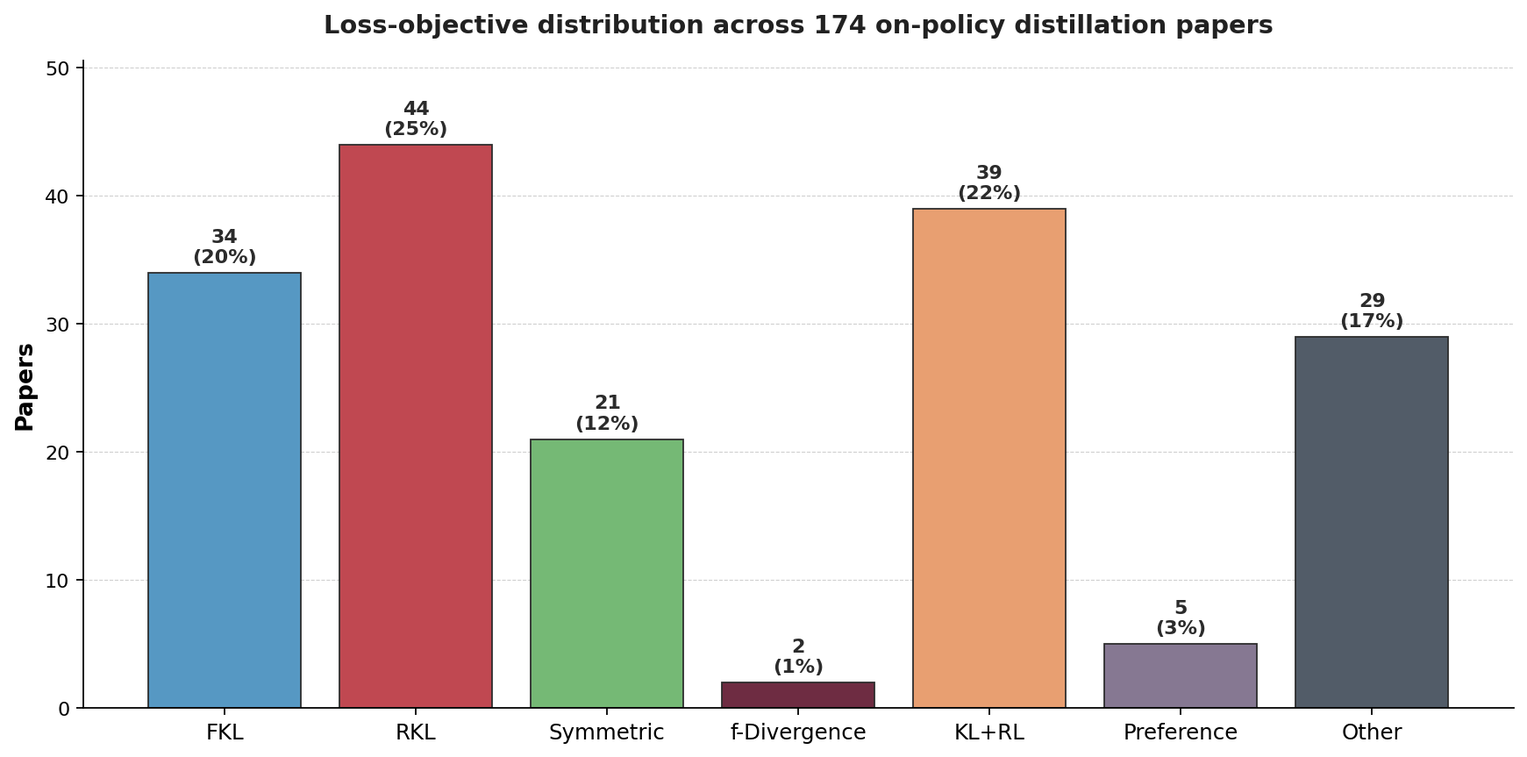
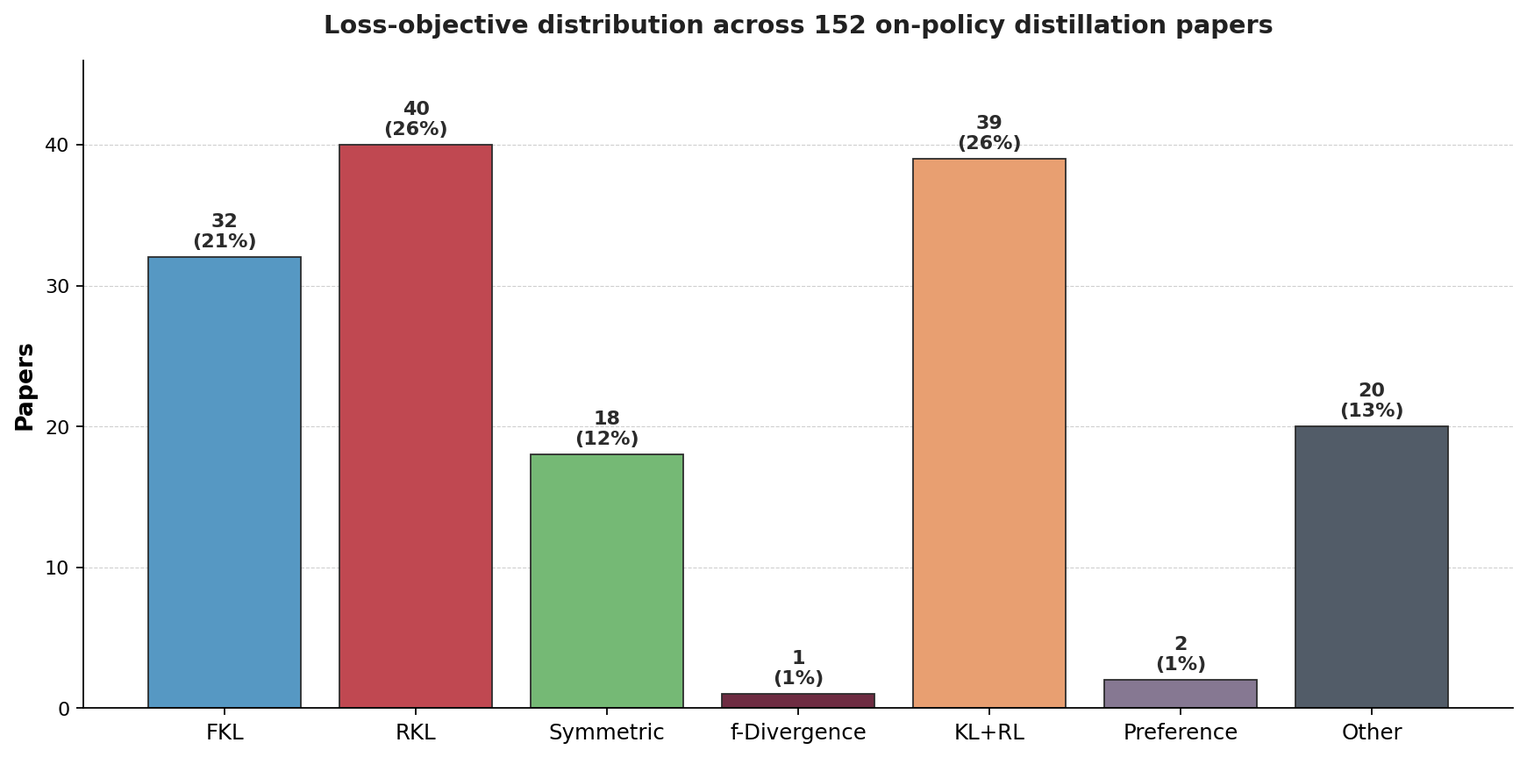
Remove 3 self-play-family papers + restrict loss-taxonomy to README scope
Triggered by spotting On-Policy SFT for Efficient Reasoning (2602.13407)
which uses NLL on filtered correct rollouts with no teacher distribution
— STaR/RFT family, not distillation. Follow-up scan caught two more with
the same signature (signal=self/PI(GT)/verifier + loss has no teacher-KL term):

- 2602.13407 (On-Policy SFT) — paper itself states "reward-free SFT"
- 2510.18874 (Retaining by Doing) — GRPO + KL-to-ref-policy, no teacher
- 2509.25100 (ORPO-Distill) — ORPO preference loss, same family as SPIN

8 candidates reviewed and kept (use self-snapshot/EMA/privileged-self
as legitimate teacher distribution).

Also: generate_loss_taxonomy.py now restricts to papers in README,
so loss figures stay aligned with published list. Loss figures cover
152 OPD-method papers (165 minus 13 analysis-of-OPD).

Paper count 168 → 165.

diff --git a/resources/loss-taxonomy.md b/resources/loss-taxonomy.md
@@ -2,49 +2,49 @@
 
 _Last updated: 2026-06-03. Auto-generated from `data/loss_classification.json`. Re-run `scripts/generate_loss_taxonomy.py` to refresh._
 
-Each of the **174** OPD papers in this collection is assigned exactly one of seven mutually-exclusive loss classes. Classification is performed by an LLM auditor that reads each paper's `loss_formulation` (LaTeX), training-loop description, and key components, then picks the dominant objective per the rules in `data/loss_taxonomy_schema.json`.
+Each of the **152** OPD papers in this collection is assigned exactly one of seven mutually-exclusive loss classes. Classification is performed by an LLM auditor that reads each paper's `loss_formulation` (LaTeX), training-loop description, and key components, then picks the dominant objective per the rules in `data/loss_taxonomy_schema.json`.
 
 ![Loss Distribution](../assets/loss-distribution.png)
 
 ## Class definitions (compact)
 
-### FKL — Forward KL  ·  **34** papers (19.5%)
+### FKL — Forward KL  ·  **32** papers (21.1%)
 
 `D_KL( \pi_T(\cdot|x) \| \pi_\theta(\cdot|x) )`
 
 _Match rule._ Loss is dominated by forward KL where the teacher distribution is the first argument (mode-covering). Includes classical KD with KL(teacher || student), CE-on-teacher-soft-targets when explicitly equivalent.
 
-### RKL — Reverse KL  ·  **44** papers (25.3%)
+### RKL — Reverse KL  ·  **40** papers (26.3%)
 
 `D_KL( \pi_\theta(\cdot|x) \| \pi_T(\cdot|x) )`
 
 _Match rule._ Loss is dominated by reverse KL where the student distribution is the first argument (mode-seeking). MiniLLM-style policy-gradient interpretations also fall here when the underlying objective is RKL to a teacher.
 
-### Symmetric — Symmetric / Skewed KL / JSD / GKL  ·  **21** papers (12.1%)
+### Symmetric — Symmetric / Skewed KL / JSD / GKL  ·  **18** papers (11.8%)
 
 `D_JSD, D_skew-KL_\alpha, D_GKL, or any symmetrized KL combination`
 
 _Match rule._ Jensen-Shannon divergence; skewed forward/reverse KL with mixture distribution \alpha\pi_T + (1-\alpha)\pi_\theta inside; bidirectional sum a*FKL + b*RKL with both nontrivial; total variation between teacher and student.
 
-### f-Divergence — Other f-divergence (alpha / Renyi / Tsallis / chi-squared)  ·  **2** papers (1.1%)
+### f-Divergence — Other f-divergence (alpha / Renyi / Tsallis / chi-squared)  ·  **1** papers (0.7%)
 
 `D_\alpha, D_Renyi, D_chi2, ... (any f-divergence beyond KL/JSD)`
 
 _Match rule._ Adaptive KL family that interpolates a parameter between FKL and RKL via alpha-divergence (AKL / TAID-style). Renyi divergence. Chi-squared. Tsallis.
 
-### KL+RL — Hybrid KL distill + RL reward  ·  **39** papers (22.4%)
+### KL+RL — Hybrid KL distill + RL reward  ·  **39** papers (25.7%)
 
 `L = D_KL(teacher, student) + \lambda \cdot R(x,a) (or GRPO/PPO surrogate with teacher KL)`
 
 _Match rule._ Loss explicitly mixes a teacher-KL distillation term with a verifiable reward / advantage / GRPO / PPO surrogate signal. Both terms must be load-bearing (removing either breaks the contribution).
 
-### Preference — Preference / Pairwise / DPO-style  ·  **5** papers (2.9%)
+### Preference — Preference / Pairwise / DPO-style  ·  **2** papers (1.3%)
 
 `DPO-style log-ratio margin between chosen and rejected responses, optionally with a KL-to-teacher hinge`
 
 _Match rule._ Preference-pair loss is the primary distillation signal: DPO, IPO, SimPO, or preference-gap KL where teacher provides the chosen response and student avoids rejected.
 
-### Other — Other / Bespoke (NLL, MSE, Contrastive, special)  ·  **29** papers (16.7%)
+### Other — Other / Bespoke (NLL, MSE, Contrastive, special)  ·  **20** papers (13.2%)
 
 `any objective that does not fit the six classes above`
 
@@ -54,22 +54,22 @@ _Match rule._ MSE on hidden states, contrastive InfoNCE between teacher/student 
 
 | Class | Papers | Share |
 |---|---:|---:|
-| FKL | 34 | 19.5% |
-| RKL | 44 | 25.3% |
-| Symmetric | 21 | 12.1% |
-| f-Divergence | 2 | 1.1% |
-| KL+RL | 39 | 22.4% |
-| Preference | 5 | 2.9% |
-| Other | 29 | 16.7% |
-| **Total** | **174** | 100% |
+| FKL | 32 | 21.1% |
+| RKL | 40 | 26.3% |
+| Symmetric | 18 | 11.8% |
+| f-Divergence | 1 | 0.7% |
+| KL+RL | 39 | 25.7% |
+| Preference | 2 | 1.3% |
+| Other | 20 | 13.2% |
+| **Total** | **152** | 100% |
 
-_Confidence breakdown: high=120, medium=53, low=1._
+_Confidence breakdown: high=100, medium=51, low=1._
 
 ![Loss Evolution Over Time](../assets/loss-evolution.png)
 
 ## Per-paper assignments
 
-### FKL (34)
+### FKL (32)
 
 | arXiv | Title | Conf | Evidence |
 |---|---|---|---|
@@ -100,19 +100,16 @@ _Confidence breakdown: high=120, medium=53, low=1._
 | [2604.10688](https://arxiv.org/abs/2604.10688) | SCOPE: Signal-Calibrated On-Policy Distillation Enhancement with Dual-Path Adaptive Wei... | medium | L_OPD on wrong trajectories is KL distillation from teacher logprobs on student-generated sequences, weighted by teacher PPL in... |
 | [2604.07430](https://arxiv.org/abs/2604.07430) | HY-Embodied-0.5: Embodied Foundation Models for Real-World Agents | high | Loss is KL(π_t(·\|x,y_{<t}) \|\| π_s(·\|x,y_{<t})) — forward KL with teacher as first argument, token-level. |
 | [2602.06019](https://arxiv.org/abs/2602.06019) | Multi-Token Prediction via Self-Distillation | high | Loss is -P_θT(y'\|x) log P_θS(y'\|x), which is cross-entropy with teacher weights, equivalent to forward KL (D_KL(teacher\|\|st... |
-| [2512.05105](https://arxiv.org/abs/2512.05105) | Semantic Soft Bootstrapping: Long Context Reasoning in LLMs without Reinforcement Learning | high | KL(softmax(teacher_logits/T) \|\| softmax(student_logits/T)) — teacher distribution is first argument, classic forward KL disti... |
 | [2510.24021](https://arxiv.org/abs/2510.24021) | SelecTKD: Selective Token-Weighted Knowledge Distillation for LLMs | medium | Default D(p_t‖q_t) is KL(teacher‖student), i.e., forward KL. Paper is objective-agnostic but primary experiments use FKL. |
 | [2510.07842](https://arxiv.org/abs/2510.07842) | AdaSwitch: Balancing Exploration and Guidance in Knowledge Distillation via Adaptive Sw... | high | Loss is D(M_t ∥ M_s) = per-token KL with teacher as first argument, i.e., KL(teacher \|\| student) = forward KL. |
-| [2509.14526](https://arxiv.org/abs/2509.14526) | Delta Knowledge Distillation for Large Language Models | high | L_delta-KD = D_KL(π_s*(·\|x) \|\| π_θ(·\|x)), teacher-like synthetic distribution π_s* is the first argument (forward KL). |
 | [2504.11426](https://arxiv.org/abs/2504.11426) | A Dual-Space Framework for General Knowledge Distillation of Large Language Models | high | Both L^{stu}_{kd} and L^{tea}_{kd} use D(teacher_distribution \|\| student_distribution), i.e., forward KL with teacher as firs... |
 | [2410.11325](https://arxiv.org/abs/2410.11325) | Speculative Knowledge Distillation: Bridging the Teacher-Student Gap through Interleave... | high | Loss is D(M_T \|\| M_s) = KL with teacher as first argument, i.e., forward KL D_KL(teacher \|\| student). |
 | [2306.13649](https://arxiv.org/abs/2306.13649) | On-Policy Distillation of Language Models: Learning from Self-Generated Mistakes | medium | Loss formulation uses D(p_T \|\| p_S^θ), which is forward KL with teacher as first argument, as the primary divergence. |
 
-### RKL (44)
+### RKL (40)
 
 | arXiv | Title | Conf | Evidence |
 |---|---|---|---|
-| [deepseekv4](https://arxiv.org/abs/deepseekv4) | DeepSeek-V4: Towards Highly Efficient Million-Token Context Intelligence | high | Loss formulation explicitly states KL(p_student \|\| p_teacher) over full vocabulary, which is reverse KL with student as first... |
 | [2606.02530](https://arxiv.org/abs/2606.02530) | SafeSteer: Localized On-Policy Distillation for Efficient Safety Alignment | high | Loss is Σ p_s(v) log(p_s(v)/p_t(v)), which is D_KL(student \|\| teacher), i.e., reverse KL. |
 | [2606.00564](https://arxiv.org/abs/2606.00564) | Decomposed On-Policy Distillation for Vision-Language Reasoning: Steering Gradients for... | medium | Rollouts sampled from student policy (on-policy), loss computed over τ~p^θ_S(·\|I,x), consistent with reverse KL / MiniLLM-styl... |
 | [2606.00424](https://arxiv.org/abs/2606.00424) | Weak Critics Make Strong Learners: On-Policy Critique Distillation for Scalable Oversight | high | Loss is KL(π_θ(·\|x,y_{<t}) \|\| stopgrad[π_θ(·\|x,f,y_{<t})]), student in first argument, teacher (critique-conditioned) in se... |
@@ -136,7 +133,6 @@ _Confidence breakdown: high=120, medium=53, low=1._
 | [2605.00642](https://arxiv.org/abs/2605.00642) | Learn where to Click from Yourself: On-Policy Self-Distillation for GUI Grounding | high | Loss is D_KL(P^S(y_t) \|\| P^T(y_t)) with expectation over student samples y ~ P^S, which is reverse KL. |
 | [2604.17535](https://arxiv.org/abs/2604.17535) | OPSDL: On-Policy Self-Distillation for Long-Context Language Models | high | Policy gradient with advantage A_t = log π_Teacher - log π_θ under on-policy student samples is the REINFORCE gradient of rever... |
 | [2604.14084](https://arxiv.org/abs/2604.14084) | TIP: Token Importance in On-Policy Distillation | high | Loss is D_KL(P_S(·\|c_t) ‖ P_T(·\|c_t)), i.e., student distribution as first argument — reverse KL. |
-| [2604.13010](https://arxiv.org/abs/2604.13010) | Lightning OPD: Efficient Post-Training for Large Reasoning Models with Offline On-Polic... | high | A_t = log π_T - log π_θ; maximizing J_off = E[Σ A_t] minimizes E_{π_ref}[log π_θ - log π_T], equivalent to reverse KL under π_r... |
 | [2604.12002](https://arxiv.org/abs/2604.12002) | Self-Distillation Zero: Self-Revision Turns Binary Rewards into Dense Supervision | high | L_Self-Distillation uses D_KL(π_θ(·\|x,y_{<t}) \|\| π_{θ_SRT}(·\|x,y,P_r,y_{<t})), student is first argument = reverse KL. |
 | [2604.08527](https://arxiv.org/abs/2604.08527) | Demystifying OPD: Length Inflation and Stabilization Strategies for Large Language Models | high | Token-level reverse-KL advantage Aᵢ,ₜ = log πT − log πθ used in GRPO-clip objective is policy-gradient minimization of D_KL(πθ‖... |
 | [2603.26666](https://arxiv.org/abs/2603.26666) | VLA-OPD: Bridging Offline SFT and Online RL for Vision-Language-Action Models via On-Po... | high | Objective is J(θ) = E_{s~π_θ}[-D_KL(π_θ(·\|s) \|\| π_tea(·\|s))], explicitly reverse KL with student as first argument. |
@@ -147,17 +143,15 @@ _Confidence breakdown: high=120, medium=53, low=1._
 | [2602.15260](https://arxiv.org/abs/2602.15260) | Fast and Effective On-policy Distillation from Reasoning Prefixes | high | Loss is sum of log(πs/πT) over student-sampled tokens, which is the reverse KL D_KL(πs \|\| πT). |
 | [2602.12275](https://arxiv.org/abs/2602.12275) | On-Policy Context Distillation for Language Models | high | Loss is D_KL(π_θ(·\|x,y_{<t}) \|\| π_teacher(·\|c,x,y_{<t})), student in first argument = reverse KL. |
 | [2602.02994](https://arxiv.org/abs/2602.02994) | Video-OPD: Efficient Post-Training of Multimodal Large Language Models for Temporal Vid... | high | Token reward r_t = -(log π_θ - log π_tea) is policy-gradient minimization of reverse KL D_KL(π_θ \|\| π_tea), MiniLLM-style. |
-| [2602.02405](https://arxiv.org/abs/2602.02405) | Didactic to Constructive: Turning Expert Solutions into Learnable Reasoning | high | Dominant term is D_KL(M_θ(·\|x,r_{<t}) \|\| M_PS(·\|r_{<t})), reverse KL with student as first argument, teacher (privileged st... |
 | [2601.20802](https://arxiv.org/abs/2601.20802) | Reinforcement Learning via Self-Distillation | medium | Loss is KL(π_θ(·\|x,y_{<t}) \|\| stopgrad(π_θ(·\|x,f,y_{<t}))), student in first argument = reverse KL direction. |
 | [2601.19897](https://arxiv.org/abs/2601.19897) | Self-Distillation Enables Continual Learning | high | Loss is D_KL(π_θ(·\|x) \|\| π(·\|x,c)), expectation under student π_θ — reverse KL with student as first argument. |
 | [2601.08310](https://arxiv.org/abs/2601.08310) | ORBIT: On-policy Exploration-Exploitation for Controllable Multi-Budget Reasoning | high | L_fusion minimizes E_{o~πϕ}[Σ_t log(πϕ/πθk)], which is on-policy reverse KL D_KL(πϕ \|\| πθk) from student to teacher. |
-| [2510.11615](https://arxiv.org/abs/2510.11615) | LLM-Oriented Token-Adaptive Knowledge Distillation | high | Loss formulation explicitly states D_KL(q_θ \|\| p), i.e., KL with student q_θ as first argument and teacher p as second. |
 | [2505.09388](https://arxiv.org/abs/2505.09388) | Qwen3 Technical Report | high | L_{on-policy} = D_{KL}(π_θ ∥ π_T), student is first argument, teacher second — reverse KL. |
 | [2503.02832](https://arxiv.org/abs/2503.02832) | AlignDistil: Token-Level Language Model Alignment as Adaptive Policy Distillation | high | Loss is D_KL(π_θ(·\|ŷ<t,x) ‖ π*(·\|ŷ<t,x)), student is first argument — reverse KL. |
 | [2402.12842](https://arxiv.org/abs/2402.12842) | PromptKD: Distilling Student-Friendly Knowledge for Generative Language Models via Prom... | high | L_student = D_KL(q_θ(y\|x) \|\| p(y\|P,x)) is reverse KL with student as first argument, the primary student training objective. |
 | [2306.08543](https://arxiv.org/abs/2306.08543) | MiniLLM: On-Policy Distillation of Large Language Models | high | Primary objective is KL[q_θ ∥ p] = D_KL(student ∥ teacher), the reverse KL, optimized via policy gradient. |
 
-### Symmetric (21)
+### Symmetric (18)
 
 | arXiv | Title | Conf | Evidence |
 |---|---|---|---|
@@ -176,19 +170,15 @@ _Confidence breakdown: high=120, medium=53, low=1._
 | [2603.07079](https://arxiv.org/abs/2603.07079) | Entropy-Aware On-Policy Distillation of Language Models | high | Loss combines PPO-clip reverse KL (low-entropy tokens) and top-k truncated forward KL (high-entropy tokens), both teacher-direc... |
 | [2601.18734](https://arxiv.org/abs/2601.18734) | Self-Distilled Reasoner: On-Policy Self-Distillation for Large Language Models | high | Loss is JSD_β = β·D_KL(p_T∥m) + (1-β)·D_KL(p_S∥m), m=βp_T+(1-β)p_S, a skewed Jensen-Shannon divergence. |
 | [2601.07155](https://arxiv.org/abs/2601.07155) | Stable On-Policy Distillation through Adaptive Target Reformulation | medium | Target Q∝P_T·P_S^β is a mixture/interpolation between teacher and student; KL to Q is neither pure FKL nor RKL. |
-| [2505.16297](https://arxiv.org/abs/2505.16297) | ToDi: Token-wise Distillation via Fine-Grained Divergence Control | high | Loss is α·FKL + (1-α)·RKL per token, a bidirectional weighted combination of forward and reverse KL with both nontrivial. |
 | [2503.07067](https://arxiv.org/abs/2503.07067) | DistiLLM-2: A Contrastive Approach Boosts the Distillation of LLMs | high | Loss combines SKL (skewed forward KL) on teacher responses and SRKL (skewed reverse KL) on student responses with dynamic α mix... |
-| [2501.16937](https://arxiv.org/abs/2501.16937) | TAID: Temporally Adaptive Interpolated Distillation for Efficient Knowledge Transfer in... | high | Loss is KL(p_t \|\| q_θ) where p_t = (1-t)·q'_θ + t·p_teacher, a skewed mixture distribution interpolating student and teacher. |
-| [2404.02657](https://arxiv.org/abs/2404.02657) | Rethinking Kullback-Leibler Divergence in Knowledge Distillation for Large Language Models | high | AKL combines FKL and RKL with adaptive weights g_head/(g_head+g_tail) and g_tail/(g_head+g_tail), both nontrivial. |
 | [2402.03898](https://arxiv.org/abs/2402.03898) | DISTILLM: Towards Streamlined Distillation for Large Language Models | high | Loss uses skewed KL: D_KL(p, αp+(1-α)q_θ) or D_KL(q_θ, (1-α)p+αq_θ), mixture distribution inside defines skew-KL. |
 | [2310.08461](https://arxiv.org/abs/2310.08461) | DistillSpec: Improving Speculative Decoding via Knowledge Distillation | medium | Loss uses D ∈ {FKL, RKL, JSD[β], TVD}; JSD and TVD are symmetric divergences; paper treats divergence selection as key contribu... |
 
-### f-Divergence (2)
+### f-Divergence (1)
 
 | arXiv | Title | Conf | Evidence |
 |---|---|---|---|
 | [2606.01039](https://arxiv.org/abs/2606.01039) | OPD+: Rethinking the Advantage Design for On-Policy Distillation | high | Loss uses general f-divergence framework with w_f(u) = -f(u) + u*f'(u), generalizing beyond KL to arbitrary f-divergences. |
-| [2604.20933](https://arxiv.org/abs/2604.20933) | IRIS: Interpolative Rényi Iterative Self-play for Large Language Model Fine-Tuning | high | Loss is Rényi divergence variational objective with adaptive order α interpolating between KL, JS, χ², Hellinger — a general f-... |
 
 ### KL+RL (39)
 
@@ -234,49 +224,37 @@ _Confidence breakdown: high=120, medium=53, low=1._
 | [2509.22921](https://arxiv.org/abs/2509.22921) | Rethinking Large Language Model Distillation: A Constrained Markov Decision Process Per... | high | Loss combines binary task reward R with KL constraint (cumulative KL to teacher as budget), both load-bearing in CMDP formulation. |
 | [2506.02208](https://arxiv.org/abs/2506.02208) | KDRL: Post-Training Reasoning LLMs via Unified Knowledge Distillation and Reinforcement... | high | J_KDRL = J_GRPO − β·D^{k2}_KL(π_θ‖π_T) explicitly combines GRPO RL surrogate with teacher KL distillation term. |
 
-### Preference (5)
+### Preference (2)
 
 | arXiv | Title | Conf | Evidence |
 |---|---|---|---|
 | [2605.05040](https://arxiv.org/abs/2605.05040) | Preference-Based Self-Distillation: Beyond KL Matching via Reward Regularization | high | Loss is DPO-style Bradley-Terry log σ(β[log-ratio margin]) with teacher as reference policy, paired chosen/rejected samples. |
 | [2604.28123](https://arxiv.org/abs/2604.28123) | Beyond SFT-to-RL: Pre-alignment via Black-Box On-Policy Distillation for Multimodal RL | high | Bradley-Terry loss on discriminator comparing supervision y+ vs rollout y-, minimax adversarial preference-pair alignment. |
-| [2509.25100](https://arxiv.org/abs/2509.25100) | ORPO-Distill: Mixed-Policy Preference Optimization for Cross-Architecture LLM Distillation | high | ORPO loss uses log-sigmoid of log-odds ratio between chosen (teacher) and rejected (student) responses—a pairwise preference ob... |
-| [2410.09008](https://arxiv.org/abs/2410.09008) | SuperCorrect: Advancing Small LLM Reasoning with Thought Template Distillation and Self... | high | Stage-2 Cross-model DPO loss uses log-sigmoid margin between teacher-corrected positive and student-generated negative pairs, c... |
-| [2401.01335](https://arxiv.org/abs/2401.01335) | Self-Play Fine-Tuning Converts Weak Language Models to Strong Language Models | high | SPIN loss uses logistic loss on log-ratio margins between chosen (human) and rejected (model-generated) responses, identical to... |
 
-### Other (29)
+### Other (20)
 
 | arXiv | Title | Conf | Evidence |
 |---|---|---|---|
 | [2606.02372](https://arxiv.org/abs/2606.02372) | COMAP: Co-Evolving World Models and Agent Policies for LLM Agents | medium | Loss is NLL on environment next-state prediction plus EMA self-distillation and BCE/NLL policy terms, no explicit KL divergence... |
 | [2606.01476](https://arxiv.org/abs/2606.01476) | OmniOPD: Logit-Free On-Policy Distillation via Speculative Verification | medium | Loss is weighted NLL on teacher-scored chunks (semantic similarity scores as weights), not a KL divergence between teacher/stud... |
-| [2606.01080](https://arxiv.org/abs/2606.01080) | ThinkSwitch: Context Distillation with LoRA and Weight Interpolation for Specific-Purpo... | high | QLoRA fine-tuning on teacher-generated answer-only sequences is NLL on hard labels, no KL divergence term present. |
-| [2605.29584](https://arxiv.org/abs/2605.29584) | GAPD: Gold-Action Policy Distillation for Agentic Reinforcement Learning in Knowledge B... | medium | Loss is clipped PPO surrogate with fused advantage combining GRPO and gold-action guide scores; no explicit KL divergence to te... |
 | [2605.28791](https://arxiv.org/abs/2605.28791) | Skill-Conditioned Gated Self-Distillation for LLM Reasoning | medium | Gated distillation objective uses bounded log-sigmoid of token gap squared, not a standard KL divergence formulation. |
 | [2605.21851](https://arxiv.org/abs/2605.21851) | OPPO: Bayesian Value Recursion for Token-Level Credit Assignment in LLM Reasoning | medium | Policy gradient with token-level advantage from Bayesian value recursion; no explicit KL distillation term to a teacher distrib... |
 | [2605.17862](https://arxiv.org/abs/2605.17862) | f-OPD: Stabilizing Long-Horizon On-Policy Distillation with Freshness-Aware Control | low | No equations or explicit loss formulation available; freshness-aware reweighting and policy drift constraint suggest bespoke mo... |
 | [2605.13643](https://arxiv.org/abs/2605.13643) | Prefix Teach, Suffix Fade: Local Teachability Collapse in Strong-to-Weak On-Policy Dist... | medium | Loss is -A'_t log p_S(y_t\|x,y_{<t}): weighted NLL on student rollouts with BIC-truncated mask, no explicit KL to teacher distr... |
-| [2605.11854](https://arxiv.org/abs/2605.11854) | Self-Distilled Trajectory-Aware Boltzmann Modeling: Bridging the Training-Inference Dis... | high | TABOM loss combines trajectory-aware reconstruction (NLL on masked tokens) and pairwise entropy ordering hinge loss—no KL diver... |
 | [2605.07396](https://arxiv.org/abs/2605.07396) | Rubric-based On-policy Distillation | high | GRPO surrogate with rubric-based reward from teacher; KL term is only ref-policy regularization, no direct KL-to-teacher distil... |
 | [2605.06094](https://arxiv.org/abs/2605.06094) | VISD: Enhancing Video Reasoning via Structured Self-Distillation | medium | Loss is GRPO clipped surrogate with teacher-modulated token weights; no explicit KL distillation term exists in the objective. |
-| [2604.01193](https://arxiv.org/abs/2604.01193) | Embarrassingly Simple Self-Distillation Improves Code Generation | high | Standard CE/NLL on self-generated sequences with no KL term, no teacher distribution, no reward signal. |
 | [2603.13260](https://arxiv.org/abs/2603.13260) | Explain in Your Own Words: Improving Reasoning via Token-Selective Dual Knowledge Disti... | medium | Loss combines Plackett-Luce ranking loss (preference-like but not pairwise DPO), entropy-gated JSD, and entropy minimization—no... |
 | [2602.20574](https://arxiv.org/abs/2602.20574) | GATES: Self-Distillation under Privileged Context with Consensus Gating | medium | L_off is NLL on tutor rollout tokens; L_on is advantage-weighted policy gradient using tutor-student log-prob difference, not s... |
-| [2602.13407](https://arxiv.org/abs/2602.13407) | On-Policy Supervised Fine-Tuning for Efficient Reasoning | high | NLL/CE on self-generated correct rollouts with no teacher distribution or KL term—standard on-policy SFT cross-entropy. |
 | [2602.02482](https://arxiv.org/abs/2602.02482) | Expanding the Capabilities of Reinforcement Learning via Text Feedback | medium | RLTF-SD uses AWR-style RL with second-turn rollouts as targets; RLTF-FM adds NLL on teacher critique. No explicit KL(teacher\|\... |
 | [2601.21968](https://arxiv.org/abs/2601.21968) | OVD: On-policy Verbal Distillation | high | Loss is PPO-clip surrogate with reward from teacher verbal scores; no KL divergence to teacher distribution appears in the obje... |
 | [2601.09088](https://arxiv.org/abs/2601.09088) | Distribution-Aligned Sequence Distillation for Superior Long-CoT Reasoning | high | Loss is NLL on teacher-sampled sequences: L = -log p_S(ŷ\|x) where ŷ ~ p_T, no explicit KL term. |
 | [2512.23097](https://arxiv.org/abs/2512.23097) | A Note on Hybrid Online Reinforcement and Imitation Learning for LLMs: Formulations and... | medium | Loss is KL(π_θ \|\| π_ref) + λ·reward. π_ref is a reference policy, not a teacher distribution for distillation. |
 | [2511.10643](https://arxiv.org/abs/2511.10643) | Black-Box On-Policy Distillation of Large Language Models | high | GAN-style adversarial training: Bradley-Terry discriminator loss + GRPO with discriminator score as reward, no explicit KL to t... |
-| [2510.18874](https://arxiv.org/abs/2510.18874) | Retaining by Doing: The Role of On-Policy Data in Mitigating Forgetting | medium | Paper compares RL (GRPO with KL to ref policy, no teacher) vs SFT baselines to study forgetting; no single dominant teacher-dis... |
 | [2509.25837](https://arxiv.org/abs/2509.25837) | Distillation of Large Language Models via Concrete Score Matching | high | Concrete Score Matching loss: weighted squared difference of log-ratio (discrete score) between student and teacher, not a KL d... |
 | [2509.14257](https://arxiv.org/abs/2509.14257) | From Correction to Mastery: Reinforced Distillation of Large Language Model Agents | high | Primary objectives are NLL on teacher trajectories (L_BC) and GRPO with key-step/final rewards. No KL divergence to teacher dis... |
 | [2505.16142](https://arxiv.org/abs/2505.16142) | RLKD: Distilling LLMs' Reasoning via Reinforcement Learning | medium | GRPO with reward signals (R_acc, R_gsrm, R_format, R_tag); no explicit KL divergence to teacher distribution in the loss. |
 | [2504.19024](https://arxiv.org/abs/2504.19024) | KETCHUP: K-Step Return Estimation for Sequential Knowledge Distillation | high | REINFORCE policy gradient with K-step Bellman return using teacher Q-values as reward; no explicit KL divergence term in loss. |
 | [2504.14945](https://arxiv.org/abs/2504.14945) | Learning to Reason under Off-Policy Guidance | medium | JSHAPING combines clipped on-policy GRPO with regularized importance-weighted off-policy advantage; no explicit KL divergence t... |
-| [2410.17215](https://arxiv.org/abs/2410.17215) | MiniPLM: Knowledge Distillation for Pre-Training Language Models | high | Loss is standard NLL/CE on student over curated corpus D'. No KL term between teacher and student distributions appears in trai... |
-| [2402.12030](https://arxiv.org/abs/2402.12030) | Towards Cross-Tokenizer Distillation: the Universal Logit Distillation Loss for LLMs | high | Primary loss is Wasserstein-1 distance (W1) between sorted teacher and student probability vectors, not KL divergence. |
-| [2305.12870](https://arxiv.org/abs/2305.12870) | Lion: Adversarial Distillation of Proprietary Large Language Models | high | Loss is NLL/CE on teacher-generated sequences: L = -sum_t log P_theta(y_t\|x,y_{<t}), no KL divergence term. |
 
 ## Methodology
 

diff --git a/README.md b/README.md
@@ -229,7 +229,7 @@ gantt
 
 ## 🔍 Teacher–Student Model Atlas
 
-> 🎯 "I have model X — what can I distill, and from whom?" This atlas maps the OPD ecosystem's model choices across 168 papers.
+> 🎯 "I have model X — what can I distill, and from whom?" This atlas maps the OPD ecosystem's model choices across 165 papers.
 
 <p align="center">
   <img src="assets/model-atlas-heatmap.png" alt="Teacher × Student Pair Matrix: Y-axis = teacher models, X-axis = student models, grouped by family. ①-⑤ marks frequency rank." width="960">
@@ -261,7 +261,7 @@ gantt
 > 🎯 "Which loss does each OPD paper actually train with?" Every paper is assigned exactly one of seven mutually-exclusive loss classes by an LLM auditor that reads its `loss_formulation` (LaTeX) end-to-end. Full per-paper assignments and evidence live in [`resources/loss-taxonomy.md`](resources/loss-taxonomy.md).
 
 <p align="center">
-  <img src="assets/loss-distribution.png" alt="Loss-objective distribution across 174 OPD papers: bar chart of FKL / RKL / Symmetric / f-Divergence / KL+RL / Preference / Other." width="900">
+  <img src="assets/loss-distribution.png" alt="Loss-objective distribution across 152 OPD-method papers: bar chart of FKL / RKL / Symmetric / f-Divergence / KL+RL / Preference / Other." width="900">
 </p>
 
 <p align="center">
@@ -481,7 +481,6 @@ On-Policy Distillation (Survey V3 Structure)
 | 🟢 [OVD: On-policy Verbal Distillation](https://arxiv.org/abs/2601.21968) <br><sub>📐 Qwen2.5-3B / LLaMA-3.2-3B → QwQ-32B (verbal feedback)</sub> | 2026 |  |
 | 🟢 [Pre-alignment via Black-box On-policy Distillation for Multimodal RL](https://arxiv.org/abs/2604.28123) <br><sub>📐 Qwen3-VL-8B → Self; PRISM adversarial MoE discriminator, logit-free OPD as pre-alignment before RLVR</sub> | 2026 | [![Code](https://img.shields.io/badge/Code-GitHub-blue)](https://github.com/XIAO4579/PRISM) |
 | 🟢 [Rubric-based On-policy Distillation](https://arxiv.org/abs/2605.07396) <br><sub>📐 GPT-5.2 / Qwen3-30B-A3B → Qwen3-4B / Gemma3-4B; structured semantic rubrics replace teacher logits; 10× sample efficiency</sub> | 2026 | [![Code](https://img.shields.io/badge/Code-GitHub-blue)](https://github.com/Peregrine123/ROPD_official) |
-| 🟢 [ORPO-Distill: Mixed-Policy Preference Optimization for Cross-Architecture LLM Distillation](https://arxiv.org/abs/2509.25100) <br><sub>📐 Various students → InternLM-2.5-7B-Chat</sub> | 2025 |  |
 | 🟢 [Black-Box On-Policy Distillation of Large Language Models](https://arxiv.org/abs/2511.10643) <br><sub>📐 Llama-3.1-8B / Qwen2.5-3B–14B → GPT-5-Chat (black-box)</sub> | 2025 |  |
 | 🟡 [OmniOPD: Logit-Free On-Policy Distillation via Speculative Verification](https://arxiv.org/abs/2606.01476) <br><sub>📐 Qwen3-32B → Qwen3-1.7B; Logit-free on-policy distillation using chunk-level Monte Carlo semantic verification from black-box teachers</sub> | 2026 |  |
 
@@ -533,7 +532,6 @@ On-Policy Distillation (Survey V3 Structure)
 |-------|:----:|:---:|
 | 🟢 [Self-Distillation Enables Continual Learning](https://arxiv.org/abs/2601.19897) <br><sub>📐 Qwen2.5-7B-Instruct → Self (demonstration-conditioned teacher, SDFT)</sub> | 2026 |  |
 | 🟢 [Multi-Token Prediction via Self-Distillation](https://arxiv.org/abs/2602.06019) <br><sub>📐 Llama-3.1-8B → Self (online distillation for 3× faster decoding)</sub> | 2026 | [![Code](https://img.shields.io/badge/Code-GitHub-blue)](https://github.com/jwkirchenbauer/mtp-lm) |
-| 🟢 [On-Policy Supervised Fine-Tuning for Efficient Reasoning](https://arxiv.org/abs/2602.13407) <br><sub>📐 DeepSeek-R1-Distill-Qwen-1.5B/7B → Self (on-policy SFT)</sub> | 2026 | [![Code](https://img.shields.io/badge/Code-GitHub-blue)](https://github.com/EIT-NLP/On-Policy-SFT) |
 | 🟢 [Rebellious Student: Reversing Teacher Signals for Reasoning Exploration with Self-Distilled RLVR](https://arxiv.org/abs/2605.10781) <br><sub>📐 Qwen3-8B → Self; RLRT: inverted self-distillation signal; reinforces student's reasoning tokens via GRPO</sub> | 2026 |  |
 | 🟢 [UniSD: Towards a Unified Self-Distillation Framework for Large Language Models](https://arxiv.org/abs/2605.06597) <br><sub>📐 Llama-3.1/Qwen2.5/Phi-3 families → Self (EMA teacher + multi-teacher agreement + divergence clipping)</sub> | 2026 | [![Code](https://img.shields.io/badge/Code-GitHub-blue)](https://github.com/Ahren09/UniSD) |
 | 🟡 [Efficient LLM Reasoning via Variational Posterior Guidance with Efficiency Awareness](https://arxiv.org/abs/2605.11019) <br><sub>📐 DeepSeek-R1-Distill-Qwen-1.5B/7B / DeepSeek-R1-Distill-Llama-8B → Self (dual-stream); VPG-EA: posterior (answer-conditioned) and prior streams share params; advantage-gated forward KL distillation; cross-view validation filters pseudo-efficient paths</sub> | 2026 |  |
@@ -695,7 +693,6 @@ On-Policy Distillation (Survey V3 Structure)
 | 🟢 [SOD: Step-wise On-policy Distillation for Small Language Model Agents](https://arxiv.org/abs/2605.07725) <br><sub>📐 Qwen3-0.6B/1.7B → Qwen3-4B; step-wise OPD for agentic tasks; progressive trajectory distillation</sub> | 2026 | [![Code](https://img.shields.io/badge/Code-GitHub-blue)](https://github.com/YoungZ365/SOD) |
 | 🟢 [Reward-Weighted On-Policy Distillation with an Open Property-Equivalence Verifier for NL-to-SVA Generation](https://arxiv.org/abs/2605.13501) <br><sub>📐 Qwen2.5-Coder-7B → CodeV-SVA-14B; verifier-reward-weighted FKL on student rollouts; new SOTA on NL2SVA</sub> | 2026 |  |
 | 🟢 [Revisiting DAgger in the Era of LLM-Agents](https://arxiv.org/abs/2605.12913) <br><sub>📐 Qwen3-4B-Instruct-2507 / Qwen3-8B → Qwen3-Coder-30B-A3B-Instruct (DAgger); turn-level student-teacher interpolation for SWE agents; +3.9pp on SWE-bench Verified</sub> | 2026 |  |
-| 🟢 [Retaining by Doing: The Role of On-Policy Data in Mitigating Forgetting](https://arxiv.org/abs/2510.18874) <br><sub>📐 Llama-3.1-8B / Llama-3.2-1B → Llama-3.3-70B</sub> | 2025 | [![Code](https://img.shields.io/badge/Code-GitHub-blue)](https://github.com/princeton-pli/retaining-by-doing) |
 | 🟢 [VOLD: Reasoning Transfer from LLMs to Vision-Language Models via On-Policy Distillation](https://arxiv.org/abs/2510.23497) <br><sub>📐 Qwen2.5-VL-3B → Qwen3-8B (text reasoning teacher)</sub> | 2025 |  |
 
 <p align="right">(<a href="#readme-top">back to top</a>)</p>

diff --git a/CHANGELOG.md b/CHANGELOG.md
@@ -6,13 +6,19 @@ All notable additions to this collection are documented here.
 ### Added
 - **TRB** (2605.31159) — *Trust-Region Behavior Blending for On-Policy Distillation* — added to §6.2 (Training Efficiency and Stabilization, curriculum/warmup) and Pending Papers. Trust-region warmup curriculum: behavior policy under student-centered KL constraint stabilizes early-stage OPD; standard reverse-KL distill loss unchanged. Pairs: Qwen3-1.7B-Base ← Qwen3-8B / Qwen3-0.6B-Base ← Qwen3-4B. Surfaced via community PR (#2 by @Myashka, closed in favour of in-pipeline insertion with corrected pair direction and base-variant tags).
 - **TRAPO** (2512.17636) — *Trust-Region Adaptive Policy Optimization* — added to §4.1 (Objective Functions, Forward-KL family) and Pending Papers. TrSFT: dynamic trust-region forward-KL on expert prefixes, interleaved with RL on student completions; adaptive prefix selection by utility. Pairs: Qwen2.5-Math-7B / Qwen2.5-7B-Instruct ← DeepSeek-R1.
-- Paper count badge: 188 → 190.
 
 ### Removed
 - 14 papers reclassified out of scope after audit found `is_opd=yes` but `student_rollout_in_training=no` (v3 reasoning text contradicted the tag, all are offline KD or pure self-distillation without rollout): Lion (2305.12870, ⭐ HoF), AKL (2404.02657, ⭐ HoF), MiniPLM (2410.17215), TAID (2501.16937), SuperCorrect (2410.09008), ToDi (2505.16297), AdaKD (2510.11615), Delta-KD (2509.14526), Cross-Tokenizer Distillation (2402.12030), Lightning OPD (2604.13010), Self-Distilled Trajectory-Aware Boltzmann (2605.11854), Embarrassingly Simple Self-Distillation (2604.01193), SSB (2512.05105), Didactic-to-Constructive (2602.02405). Per scope rule (Awesome list = OPD methods + analysis-of-OPD only); these remain referenced in the survey LaTeX as background.
+- 3 additional papers reclassified out of scope after a follow-up scan triggered by spotting *On-Policy SFT for Efficient Reasoning* (2602.13407). All three share the same signature as the SPIN/IRIS boundary cases: signal source is self / PI(GT) / verifier-only and the loss has **no teacher-distribution KL term**, making them rejection-sampled self-training or DPO-style preference rather than distillation:
+  - **On-Policy SFT for Efficient Reasoning** (2602.13407) — NLL on filtered correct rollouts, paper itself states "reward-free training recipe on-policy SFT"; STaR / RFT / ReST family.
+  - **Retaining by Doing** (2510.18874) — GRPO with KL to *initial policy* (not teacher) plus a separate SFT branch; analysis of RL vs SFT for forgetting, no teacher-distill term.
+  - **ORPO-Distill** (2509.25100) — ORPO preference loss `L_SFT + λ·log σ(log-odds(yP)/odds(yN))`; pairwise preference rather than distribution matching, same family as SPIN.
+- Paper count badge: 175 → 165.
 
 ### Changed
 - Model-pair fields corrected for 9 papers where v3 deep-read pairs disagreed with prior README entries (AOPD 2605.06387 / TGPO 2605.13230 / Long-Context OPD 2605.12227 / Best-of-N Teacher 2605.09725 / CoPD 2604.27083 / Speculative-KD 2410.11325 / TCOD 2604.24005 / VLA-OPD 2603.26666 / DAgger 2605.12913).
+- `scripts/generate_loss_taxonomy.py` now restricts loss-distribution PNG / loss-evolution PNG / loss-taxonomy.md to papers actually present in this README, so taxonomy figures stay aligned with the published list when scope cleanups happen.
+- Loss-taxonomy figures now cover **152 OPD-method papers** (excluding 13 analysis-of-OPD papers and 6 reference-only entries from the count, since they don't propose a single OPD loss).
 
 ## [2026-05-30]
 ### Added
